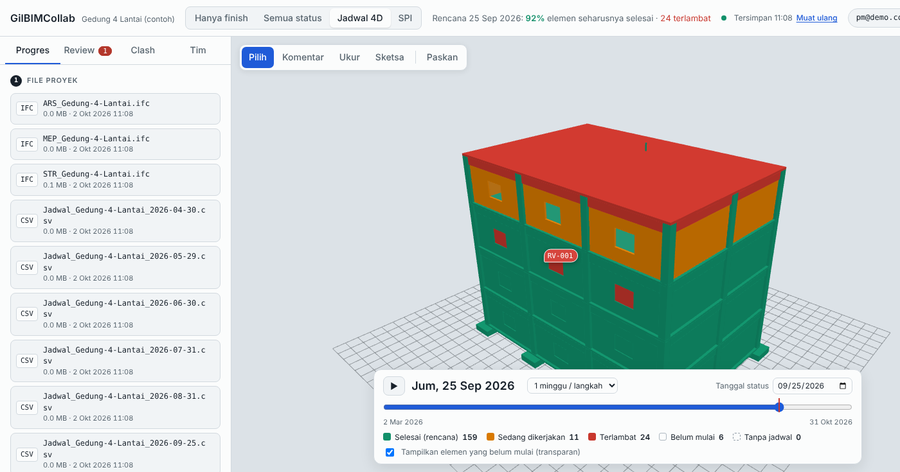
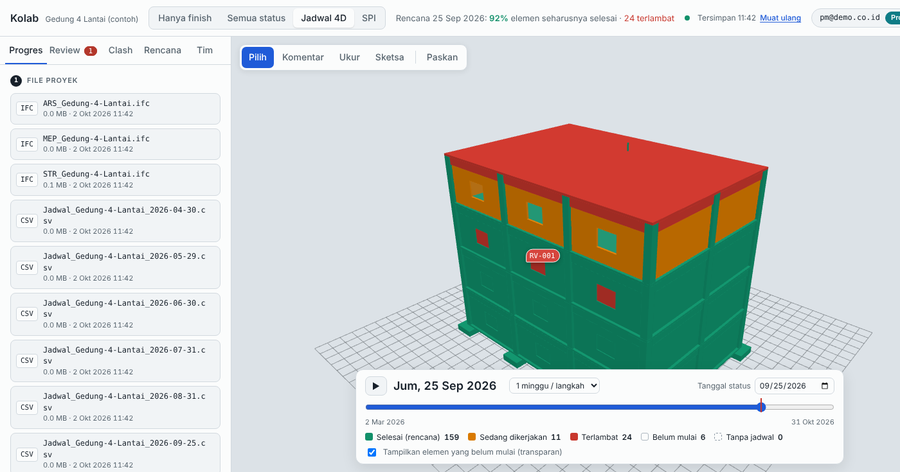
Situs: nama baru LiteBIM, Kolab, GIM
Claude-Session: https://claude.ai/code/session_01ScJ26rzgECUNgMqt7bDkzv

diff --git a/index.html b/index.html
@@ -4,7 +4,7 @@
 <meta charset="utf-8">
 <meta name="viewport" content="width=device-width,initial-scale=1">
 <title>Octopus · Alat bantu arsitek</title>
-<meta name="description" content="GilBIM, Octopus Studio, dan Octopus Smart: alat bantu arsitek untuk pra-desain, pemodelan, RAB, dan berkas PBG rumah tinggal di Indonesia.">
+<meta name="description" content="LiteBIM, Octopus Studio, dan Octopus Smart: alat bantu arsitek untuk pra-desain, pemodelan, RAB, dan berkas PBG rumah tinggal di Indonesia.">
 <link rel="canonical" href="https://octonaut.id/">
 <link rel="preconnect" href="https://fonts.googleapis.com">
 <link rel="stylesheet" href="https://fonts.googleapis.com/css2?family=Barlow+Condensed:wght@500;600;700&family=IBM+Plex+Mono:wght@400;500&family=IBM+Plex+Sans:wght@400;500;600&display=swap">
@@ -174,7 +174,7 @@ footer .fine{border-top:1px solid var(--dark-rule);padding-top:20px;display:flex
 <article class="card">
 <div class="body">
 <div class="top"><span class="tag">BIM</span><svg width="40" height="40" viewBox="0 0 24 24" fill="none" stroke="currentColor" stroke-width="1.5" aria-hidden="true"><rect x="3" y="3" width="7" height="7"/><rect x="14" y="3" width="7" height="7"/><rect x="3" y="14" width="7" height="7"/><rect x="14" y="14" width="7" height="7"/></svg></div>
-<h3>GilBIM</h3>
+<h3>LiteBIM</h3>
 <p>Alat pemodelan BIM ringan: denah 2D dan tampilan 3D bertingkat, lengkap dengan elemen struktur dan lembar gambar.</p>
 <ul><li>Dinding, pintu, jendela, kolom, balok, tangga, atap</li><li>Denah 2D dengan tampilan 3D langsung</li><li>Potongan, tampak, jadwal volume, dan lembar gambar</li><li>Ekspor IFC, DXF, dan JSON</li></ul>
 <div class="gmail"><svg width="18" height="18" viewBox="0 0 24 24" fill="none" stroke="currentColor" stroke-width="1.8" stroke-linecap="round" stroke-linejoin="round" aria-hidden="true"><rect x="3" y="5" width="18" height="14" rx="2"></rect><path d="M3 7l9 6 9-6"></path></svg>Wajib login dengan akun Gmail untuk membuka aplikasi.</div>
@@ -221,10 +221,10 @@ footer .fine{border-top:1px solid var(--dark-rule);padding-top:20px;display:flex
 </div>
 <div class="cards c3">
 <article class="card">
-<img class="thumb" src="thumb-progress.png" width="900" height="472" loading="lazy" alt="Model gedung 4 lantai berwarna status progres pada jadwal 4D GilBIMCollab">
+<img class="thumb" src="thumb-progress.png" width="900" height="472" loading="lazy" alt="Model gedung 4 lantai berwarna status progres pada jadwal 4D Kolab">
 <div class="body">
 <div class="top"><span class="tag">KOLABORASI</span><svg width="40" height="40" viewBox="0 0 24 24" fill="none" stroke="currentColor" stroke-width="1.5" stroke-linecap="round" stroke-linejoin="round" aria-hidden="true"><circle cx="9" cy="8" r="3.5"/><path d="M2 20c0-3.5 3-6 7-6s7 2.5 7 6"/><circle cx="17" cy="9" r="2.5"/><path d="M17 14c3 0 5 1.8 5 5"/></svg></div>
-<h3>GilBIMCollab</h3>
+<h3>Kolab</h3>
 <p>Koordinasi proyek berbasis model untuk kontraktor utama: progres 4D, review, clash, dan perencanaan lean construction dengan Last Planner.</p>
 <ul><li>Jadwal 4D dari MS Project dan kinerja jadwal (SPI)</li><li>Review, ukur, sketsa, clash, dan issue BCF langsung di model</li><li>Last Planner: lookahead 6 minggu, daftar kendala, dan komitmen mingguan</li><li>PPC per minggu dan rekap alasan pekerjaan tidak selesai</li></ul>
 <div class="gmail"><svg width="18" height="18" viewBox="0 0 24 24" fill="none" stroke="currentColor" stroke-width="1.8" stroke-linecap="round" stroke-linejoin="round" aria-hidden="true"><rect x="3" y="5" width="18" height="14" rx="2"></rect><path d="M3 7l9 6 9-6"></path></svg>Wajib login dengan akun Gmail untuk membuka aplikasi.</div>
@@ -243,11 +243,11 @@ footer .fine{border-top:1px solid var(--dark-rule);padding-top:20px;display:flex
 <a class="go" href="/Gtwin/">LOGIN DENGAN GMAIL <svg width="22" height="22" viewBox="0 0 24 24" fill="none" stroke="currentColor" stroke-width="2" stroke-linecap="round" stroke-linejoin="round" aria-hidden="true"><path d="M15 3h4a2 2 0 0 1 2 2v14a2 2 0 0 1-2 2h-4"></path><path d="M10 17l5-5-5-5M15 12H3"></path></svg></a>
 </article>
 <article class="card">
-<img class="thumb" src="thumb-cim.png" width="900" height="473" loading="lazy" alt="Peta satelit 3D Bandara Soekarno-Hatta dengan panel informasi aset di CIM">
+<img class="thumb" src="thumb-gim.png" width="900" height="473" loading="lazy" alt="Peta satelit 3D Bandara Soekarno-Hatta dengan panel informasi aset di GIM">
 <div class="body">
 <div class="top"><span class="tag">ASET · PETA</span><svg width="40" height="40" viewBox="0 0 24 24" fill="none" stroke="currentColor" stroke-width="1.5" stroke-linecap="round" stroke-linejoin="round" aria-hidden="true"><circle cx="12" cy="12" r="9"/><path d="M3 12h18M12 3c3 3 3 15 0 18M12 3c-3 3-3 15 0 18"/></svg></div>
-<h3>CIM</h3>
-<p>Country Information Model: peta aset infrastruktur lintas negara lengkap dengan sensor IoT, laporan gangguan, dan perawatan.</p>
+<h3>GIM</h3>
+<p>GIM (Geographic Information Model): peta aset infrastruktur lengkap dengan sensor IoT, laporan gangguan, dan perawatan.</p>
 <ul><li>Peta aset bangunan, jalan, jembatan, bendungan, dan bandara</li><li>Peringatan sensor IoT per aset</li><li>Laporan gangguan dan jadwal perawatan</li><li>Peta satelit, tampilan 3D, dan ekspor CSV</li></ul>
 <div class="gmail"><svg width="18" height="18" viewBox="0 0 24 24" fill="none" stroke="currentColor" stroke-width="1.8" stroke-linecap="round" stroke-linejoin="round" aria-hidden="true"><rect x="3" y="5" width="18" height="14" rx="2"></rect><path d="M3 7l9 6 9-6"></path></svg>Wajib login dengan akun Gmail untuk membuka aplikasi.</div>
 </div>
@@ -282,7 +282,7 @@ footer .fine{border-top:1px solid var(--dark-rule);padding-top:20px;display:flex
 <section class="cta" id="kontak">
 <div><h2>Mulai proyek rumah berikutnya dengan Octopus</h2></div>
 <div class="ctas">
-<a class="btn white" href="/GilBIM/">Coba GilBIM</a>
+<a class="btn white" href="/GilBIM/">Coba LiteBIM</a>
 <a class="btn line-w" href="/Octopus-Studio/">Coba Octopus Studio</a>
 </div>
 </section>
@@ -291,7 +291,7 @@ footer .fine{border-top:1px solid var(--dark-rule);padding-top:20px;display:flex
 <div class="row">
 <div><b>OCTOPUS</b><span>Alat bantu arsitek untuk rumah tinggal sederhana.</span></div>
 <nav aria-label="Tautan footer">
-<a href="/GilBIM/">GilBIM</a>
+<a href="/GilBIM/">LiteBIM</a>
 <a href="/Octopus-Studio/">Octopus Studio</a>
 <a href="#kontak">Mulai</a>
 </nav>
